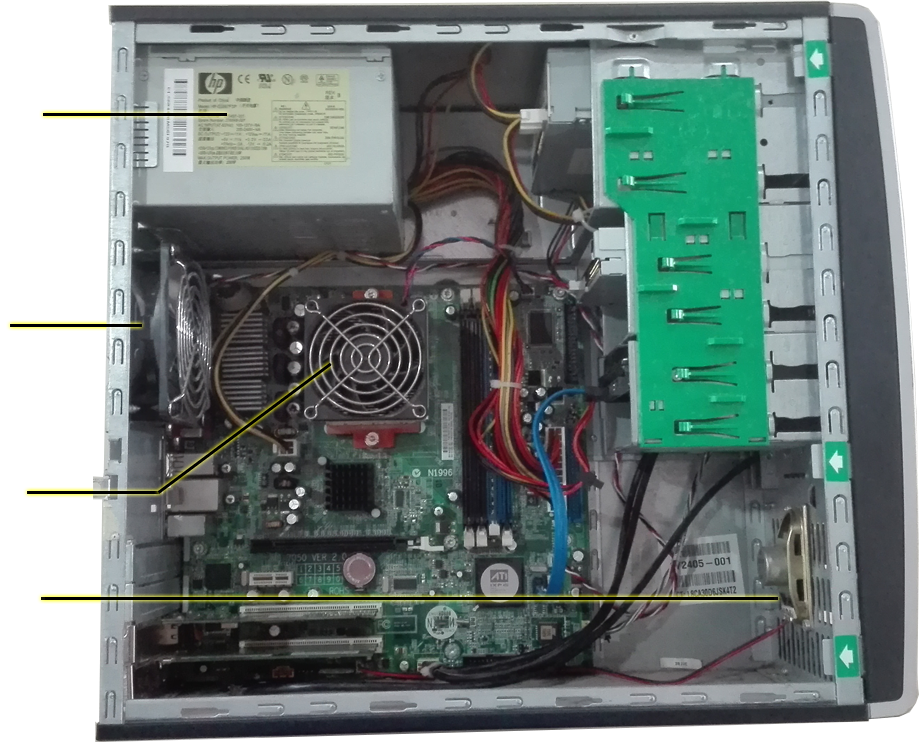
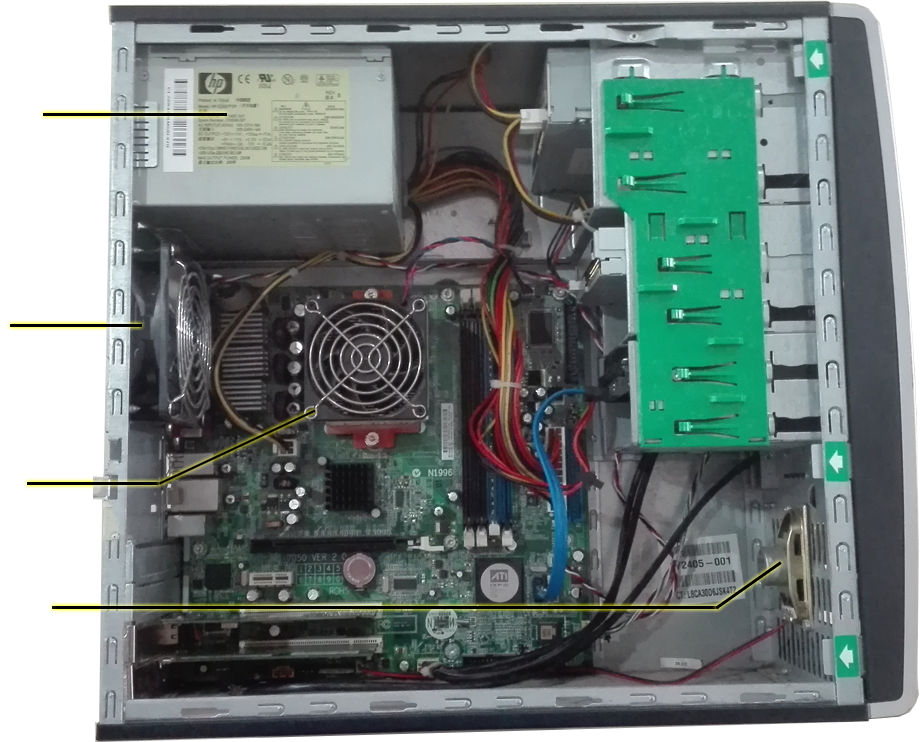
Aligning changes added'

Changed region(s): [[0.0304, 0.7439, 0.8522, 0.8369], [0.0304, 0.496, 0.3652, 0.6819]]

diff --git a/assets/css/style.css b/assets/css/style.css
@@ -18,24 +18,26 @@
 	position: absolute;
 	top: 0px;
 	left: 260px;
-	height: 590px;
+	height: 555px;
 }
 
 .component {
 	position: absolute;
 	transition: all .4s ease-in-out;
+	filter: drop-shadow(1px 0px 0px yellow) drop-shadow(-1px -1px 2px yellow);
 	-webkit-filter: drop-shadow(1px 0px 0px yellow) drop-shadow(-1px -1px 2px yellow);
 }
 .component:hover{
+	filter: drop-shadow(3px 1px 2px yellow) drop-shadow(-2px -2px 3px yellow);
 	-webkit-filter: drop-shadow(3px 1px 2px yellow) drop-shadow(-2px -2px 3px yellow);
 	z-index: 100;
 	transform: scale(1.4);
 }
 
 .processor{
-	top: 229px;
-	left: 500px;
-	height: 133px;
+	top: 216px;
+	left: 487px;
+	height: 123px;
 }
 
 
@@ -46,29 +48,28 @@
 }
 
 .question-box{
-	position: absolute;
 	border-radius: 5px;
 	border: 2px solid black;
 	padding: 10px;
-
+	width: 225px;
 }
 
 .fan{
-	top: 181px;
-	left: 364px;
-	height: 170px;
+	top: 171px;
+	left: 357px;
+	height: 160px;
 }
 
 .speeker{
-	top: 399px;
-	left: 861px;
-	height: 99px;
+	top: 376px;
+	left: 826px;
+	height: 92px;
 }
 
 .PCI{
-	top: 475px;
-	left: 346px;
-	height: 25px;
+	top: 465px;
+	left: 336px;
+	height: 15px;
 }
 
 .south_bridge{
@@ -78,7 +79,7 @@
 }
 
 .powersupply {
-	top: 34px;
-	left: 366px;
-	height: 175px;
+	top: 32px;
+	left: 359px;
+	height: 165px;
 }

diff --git a/index.php b/index.php
@@ -36,9 +36,9 @@
 
 
 <body>
-<div style="background-color: #00b3b3; height: 83px;">
+<div style="background-color: #00b3b3; height: 75px;">
 
-    <nav class="navbar navbar-inverse navbar-fixed-top" role="navigation">
+    <nav class="navbar navbar-inverse navbar-fixed-top" role="navigation" style="height: 65px;">
 
             <div class="navbar-header">
                 <button type="button" class="navbar-toggle" data-toggle="collapse" data-target=".navbar-ex1-collapse">
@@ -47,12 +47,12 @@
                     <span class="icon-bar"></span>
                     <span class="icon-bar"></span>
                 </button>
-                <a class="navbar-brand" href="index.html">PC<strong style="color : #009b83;">Know</strong></a>
+                <a class="navbar-brand" href="index.html" style="padding: 10px 15px 0px; height: 46px;" >PC<strong style="color : #009b83; ">Know</strong></a>
             </div>
              
-            <ul class="nav navbar-right top-nav">
+            <ul class="nav navbar-right top-nav" >
                 <li class="dropdown">
-                    <ul class="pagination pagination-sm">
+                    <ul class="pagination pagination-sm" style="margin: 10px 0px;">
                         <li class="page-item disabled">
                             <a class="page-link" href="#" aria-label="Previous">
                             <span aria-hidden="true">&laquo;</span>
@@ -90,8 +90,8 @@
 </div>
 <br>
 
-<div class="col-xs-6 col-xs-offset-3">
-    <iframe width="560" height="315" src="https://www.youtube.com/embed/8UyJMiYqvs4" frameborder="0"
+<div class="col-xs-6 col-xs-offset-3" style="border:1px solid black;">
+    <iframe width="560" height="315" src="https://www.youtube.com/embed/rH5RSR5rb4w" frameborder="0"
             allowfullscreen></iframe>
 
 </div>
@@ -101,11 +101,11 @@
 <!--    <button class="btn btn-primary homeGoBTN"  > GO </button>-->
 <!---->
 <!--</div>-->
-<div class="col-xs-4 col-xs-offset-5">
+<div class="col-xs-12" style="text-align:center;">
 <img id="goImage" src="assets/img/arrow.png" onclick="return(alertMessage());">
 </div>
 
-<div id="targetDiv" class="col-xs-12" style="height: 665px; display: none;" >
+<div id="targetDiv" class="col-xs-12" style="height: 600px; display: none;" >
 
     <form role="form" method="post" onsubmit="return(validateForm());">
 
@@ -117,51 +117,55 @@
         <img src="assets/img/q1/speeker.png" class="component speeker" id="speeker">
     </div>
     <!-- Left side -->
-    <div id="q1box" class="question-box" style="top: 101px; left: 230px;">
-        <select id="q1" style="width:200px; color: black;">
-            <option value="0">-- Select --</option>
-            <option value="1">RAM</option>
-            <option value="2">Power Supply Unit</option>
-            <option value="3">VGA</option>
-        </select>
-    </div>
+    <div style="position: absolute; top: 96px; left: 244px;">
+	    <div id="q1box" class="question-box" style="">
+	        <select id="q1" style="width:200px; color: black;">
+	            <option value="0">-- Select --</option>
+	            <option value="1">RAM</option>
+	            <option value="2">Power Supply Unit</option>
+	            <option value="3">VGA</option>
+	        </select>
+	    </div>
+	    <label id="errorq1" style="font-size: 15px; top: 148px; left: 23px;"></label>
+	</div>
 
-    <label id="errorq1" style="font-size: 15px;top:150px; left: -20px;"  class="col-xs-3 col-xs-offset-2 "></label>
+	<div style="position: absolute; top: 254px; left: 218px;">
+	    <div id="q2box" class="question-box">
+	        <select id="q2" style="width:200px; color: black;">
+	            <option value="0">-- Select --</option>
+	            <option value="1">RAM</option>
+	            <option value="2">Processor Cooling Fan </option>
+	            <option value="3">Cooling Fan</option>
+	        </select>
+	    </div>
+	    <label id="errorq2" style="font-size: 15px; top: 304px; left: -546px;"></label>
+	</div>
+	
+	<div style="position: absolute; top: 372px; left: 231px;">
+	    <div id="q3box" class="question-box">
+	        <select id="q3" style="width:200px; color: black;">
+	            <option value="0">-- Select --</option>
+	            <option value="1">Processor Cooling Fan</option>
+	            <option value="2">Processor</option>
+	            <option value="3">Cooling Fan</option>
+	        </select>
+	    </div>
+	    <label id="errorq3" style="font-size: 15px; top: 394px; left: 13px;"></label>
+	</div>
 
-    <div id="q2box" class="question-box" style="top: 268px; left: 204px;">
-        <select id="q2" style="width:200px; color: black;">
-            <option value="0">-- Select --</option>
-            <option value="1">RAM</option>
-            <option value="2">Processor Cooling Fan </option>
-            <option value="3">Cooling Fan</option>
-        </select>
-    </div>
+	<div style="position: absolute; top: 467px; left: 251px;">
+	    <div id="q4box" class="question-box">
+	        <select id="q4" style="width:200px; color: black;">
+	            <option value="0">-- Select --</option>
+	            <option value="1">RAM</option>
+	            <option value="2">Default Speakers</option>
+	            <option value="3">VGA</option>
+	        </select>
+	    </div>
+	    <label id="errorq4" style="font-size: 15px; top: 492px; left: -514px;"></label>
+	</div>
 
-    <label id="errorq2" style="font-size: 15px; top:320px;left:-590px; " class="col-xs-3 col-xs-offset-2 "></label>
-
-    <div id="q3box" class="question-box" style="top: 403px; left: 218px;">
-        <select id="q3" style="width:200px; color: black;">
-            <option value="0">-- Select --</option>
-            <option value="1">Processor Cooling Fan</option>
-            <option value="2">Processor</option>
-            <option value="3">Cooling Fan</option>
-        </select>
-    </div>
-
-    <label id="errorq3" style="font-size: 15px;top:420px;left:-30px; " class="col-xs-3 col-xs-offset-2 "></label>
-
-    <div id="q4box" class="question-box" style="top: 485px; left: 229px;">
-        <select id="q4" style="width:200px; color: black;">
-            <option value="0">-- Select --</option>
-            <option value="1">RAM</option>
-            <option value="2">Default Speakers</option>
-            <option value="3">VGA</option>
-        </select>
-    </div>
-
-    <label id="errorq4" style="font-size: 15px; top:510px;left:-565px;" class="col-xs-3 col-xs-offset-2 "></label>
-
-    <div class="col-xs-1 col-xs-offset-11" style="top:595px;">
+    <div class="col-xs-1 col-xs-offset-11" style="top:525px;">
         <button class="btn btn-default" style="background-color: #2a6496; color: #ffffff;" >Submit</button>
     </div>
         </form>
